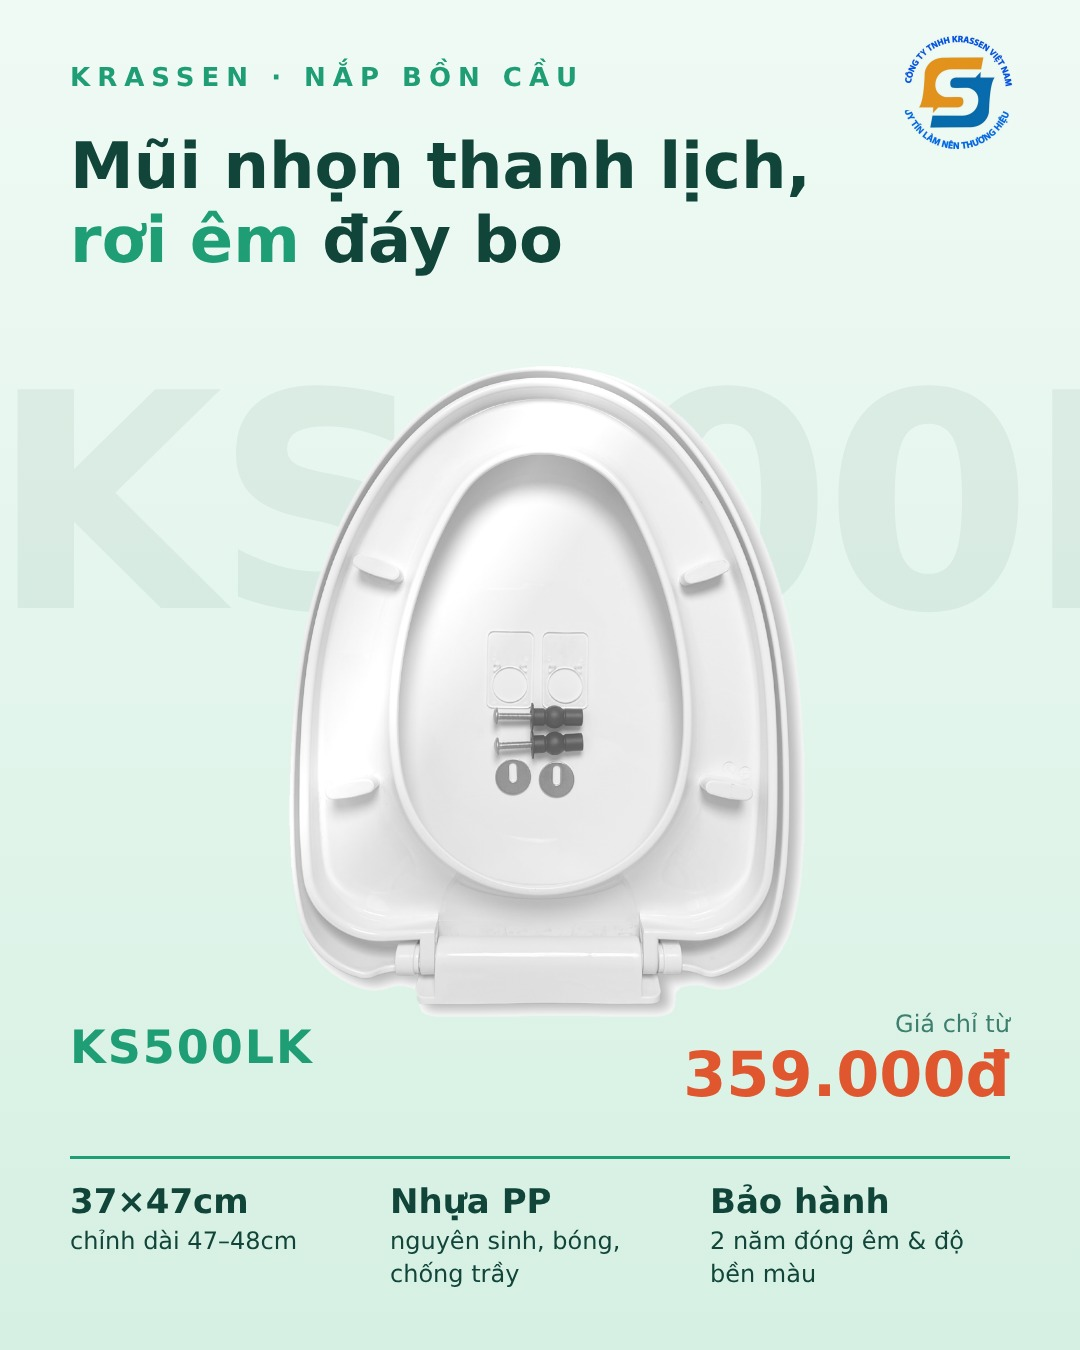
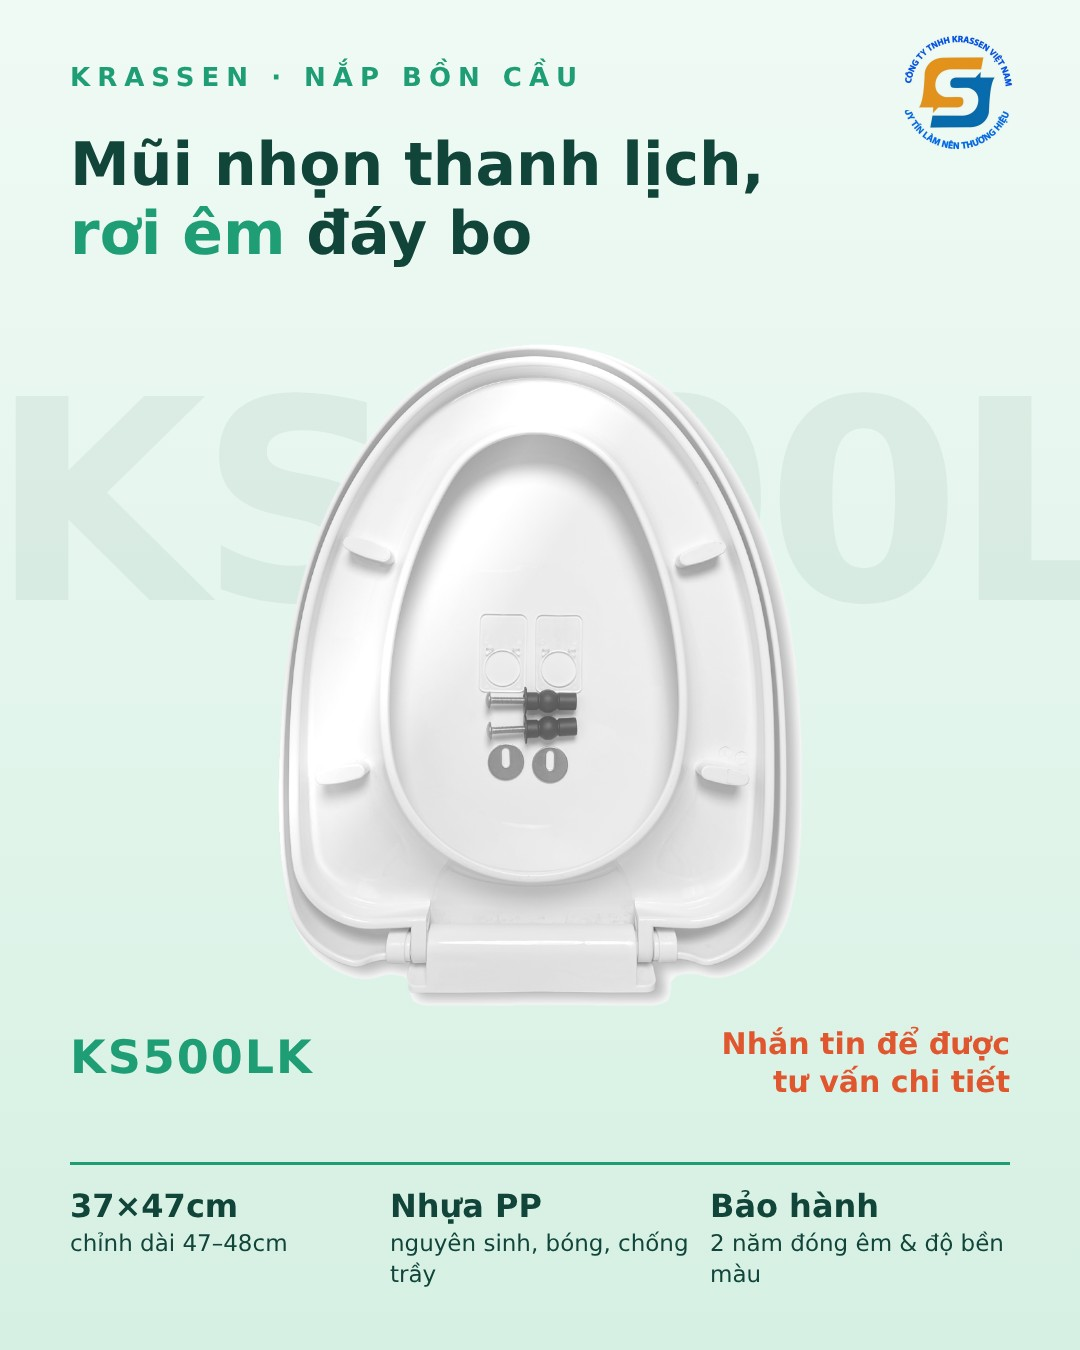
Cap nhat anh 12 ma (bo gia), them manifest.json va caption
Claude-Session: https://claude.ai/code/session_013caNe4PvgU8QmB7DtUJ3vr

diff --git a/captions_12.md b/captions_12.md
@@ -1,0 +1,109 @@
+# Caption 12 mã (không ghi giá)
+
+## KS500RK
+Nắp bồn cầu rơi êm KS500RK – mũi nhọn, đáy bo, vừa vặn nhiều dòng bồn cầu 💧
+✅ Rộng 37cm, dài 47cm (chỉnh được 47–48cm tính từ mũi bồn cầu đến tâm 2 lỗ bắt vít)
+✅ Nhựa PP nguyên sinh cao cấp, phủ bóng hạn chế trầy xước, màu trắng sữa không ố màu
+✅ Bảo hành 2 năm tính năng đóng êm và độ bền màu
+Tương thích nhiều mã bồn cầu Inax (AC602VN…), TOTO (C344, S320…), American (VF2700…), Cotto (C1388…), Caesar (CD1130, CD1131)…
+📩 Nhắn tin để được tư vấn chi tiết và đúng size bồn cầu nhà bạn!
+#krasen #napboncau #naproiem #suachuanhacua
+
+## KS11
+Bồn cầu nhà bạn dáng tròn bầu? Nắp đóng êm KS11 là lựa chọn vừa vặn ✨
+✅ Rộng 36cm, dài 44cm (chỉnh dài 43–44cm)
+✅ Nhựa PP nguyên sinh cao cấp phủ bóng, hạn chế trầy xước, màu trắng sữa không ố màu
+✅ Bảo hành 2 năm tính năng đóng êm và độ bền màu
+Phù hợp nhiều dòng bồn cầu Inax (C-117VTN…), Viglacera (VI44…), American Standard (VF-2321…), Ceravi (C305…), Caesar (CT1325PW…), TOTO (S715D…)
+📩 Nhắn tin để được tư vấn chi tiết và đúng size bồn cầu nhà bạn!
+#krasen #napboncau #naproiem #suachuanhacua
+
+## KS609TC
+KS609TC – mũi nhọn chữ V, đáy rộng, rơi chậm êm ái 🌟
+✅ Rộng 36cm, dài 46cm (chỉnh vị trí ốc vít, dài 45–47cm)
+✅ Rơi chậm không gây tiếng ồn, nhựa PP nguyên sinh phủ bóng không ố màu, hạn chế trầy xước
+✅ Màu trắng sữa bền đẹp, bảo hành 2 năm tính năng đóng êm và độ bền màu
+Tương thích bồn cầu Inax (918VRT, AC-952VN), Basic (BS-108…), Kassani (2372…), Cotto (C12247), American (VF1808), Viglacera (V45, V36), Caesar (C1374-PW…)
+📩 Nhắn tin để được tư vấn chi tiết và đúng size bồn cầu nhà bạn!
+#krasen #napboncau #naproiem #suachuanhacua
+
+## KS500LK
+KS500LK – nắp bồn cầu rơi êm, mũi nhọn thanh lịch, đáy bo gọn gàng 🛁
+✅ Rộng 37cm, dài 47cm (chỉnh dài 47–48cm tính từ mũi nắp đến tâm 2 lỗ vít)
+✅ Nhựa PP nguyên sinh cao cấp phủ bóng, hạn chế trầy xước, màu trắng sữa không ố màu
+✅ Bảo hành 2 năm tính năng đóng êm và độ bền màu
+Phù hợp nhiều dòng TOTO (TC385VS, MS188…), Inax (AC-702VRN, C702VRN…), Caesar (C1356, CD1330…), Viglacera (V37, V39…), American (VF1858, VF2010…)
+📩 Nhắn tin để được tư vấn chi tiết và đúng size bồn cầu nhà bạn!
+#krasen #napboncau #naproiem #suachuanhacua
+
+## KS09
+KS09 – nắp bồn cầu tròn bầu đóng êm, vừa nhiều dòng bồn cầu phổ biến 🌿
+✅ Rộng 37cm, dài 44cm (chỉnh dài 43–44cm tính từ mũi nắp đến tâm 2 lỗ vít)
+✅ Nhựa PP nguyên sinh cao cấp phủ bóng, hạn chế trầy xước, màu trắng sữa không ố màu
+✅ Bảo hành 2 năm tính năng đóng êm và độ bền màu
+Tương thích bồn cầu Caesar (C1338-PW, CT1325…), Inax (C108, C117…) và nhiều hãng khác
+📩 Nhắn tin để được tư vấn chi tiết và đúng size bồn cầu nhà bạn!
+#krasen #napboncau #naproiem #suachuanhacua
+
+## KS15U
+KS15U – nắp bồn cầu chữ U rơi chậm, êm ái không tiếng ồn 🌙
+✅ Rộng 36cm, dài 46cm (chỉnh dài 45–48cm tính từ mũi nắp đến vị trí ốc vít)
+✅ Rơi chậm không gây tiếng ồn, màu trắng sữa phủ bóng hạn chế trầy xước
+✅ Nhựa PP nguyên sinh cao cấp không ố màu, nặng 1,4kg dày chắc chắn, bảo hành 2 năm
+Thay thế cho nhiều bồn phổ thông và cao cấp: Toto (CW162, CW635…), Viglacera (V199, V35…), American Standard (VF2309, VF2781), Vinaloha, Basic, Kassani, Sanfi…
+📩 Nhắn tin để được tư vấn chi tiết và đúng size bồn cầu nhà bạn!
+#krasen #napboncau #naproiem #suachuanhacua
+
+## KS005
+KS005 – nắp bồn cầu hình trứng, đóng êm, rơi chậm không gây tiếng ồn 🥚
+✅ Rộng 36cm, dài 45cm (chỉnh dài 43–46cm tính từ mũi nắp đến tâm 2 chân vít)
+✅ Màu trắng sữa phủ bóng hạn chế trầy xước, nhựa PP nguyên sinh cao cấp không ố màu
+✅ Nặng 1,3kg dày chắc chắn, bảo hành 2 năm
+Tương thích bồn cầu Cotto (C12247), American (VF2014)… và thay thế cho nhiều loại bồn phổ thông và cao cấp
+📩 Nhắn tin để được tư vấn chi tiết và đúng size bồn cầu nhà bạn!
+#krasen #napboncau #naproiem #suachuanhacua
+
+## KS21
+KS21 – nắp bồn cầu mũi tròn đáy bo, dáng nhỏ gọn, rơi chậm êm ái 🤍
+✅ Rộng 34cm, dài 44cm (chỉnh dài 43–44cm tính từ mũi nắp đến tâm 2 chân bắt vít)
+✅ Rơi chậm không gây tiếng ồn, màu trắng sữa phủ bóng hạn chế trầy xước
+✅ Nhựa PP nguyên sinh cao cấp không ố màu, nặng 1,3kg dày chắc chắn, bảo hành 2 năm
+Phù hợp bồn cầu Viglacera (V38, TT77, C109…), Vinaloha (LH1-08, LH1-07), Livera BL08, Kassani KS-2345, Iasaki BL-08…
+📩 Nhắn tin để được tư vấn chi tiết và đúng size bồn cầu nhà bạn!
+#krasen #napboncau #naproiem #suachuanhacua
+
+## KS504C
+KS504C – nắp bồn cầu mũi tròn đáy rộng, rơi chậm, nhựa PP cao cấp không ố màu 💎
+✅ Rộng 36cm, dài 46cm (chỉnh dài 44–47cm tính từ mũi nắp đến tâm 2 chân bắt vít)
+✅ Rơi chậm không gây tiếng ồn, màu trắng sữa phủ bóng hạn chế trầy xước
+✅ Nhựa PP nguyên sinh cao cấp không ố màu, nặng 1,3kg dày chắc chắn, bảo hành 2 năm
+Tương thích bồn cầu Ceravi (C502, C504, C612), Viglacera (C109), Basic (BS-103), Siton (S600), Vosler (VL-C391), Saphias (TS-157)…
+📩 Nhắn tin để được tư vấn chi tiết và đúng size bồn cầu nhà bạn!
+#krasen #napboncau #naproiem #suachuanhacua
+
+## KS45
+KS45 – nắp bồn cầu cao cấp rơi êm, gắn vòi xịt tiện lợi 🚿
+✅ Rộng 37cm, dài 47cm (chỉnh dài 47–48cm tính từ mũi nắp đến tâm 2 chân bắt vít)
+✅ Rơi chậm không gây tiếng ồn, màu trắng sữa phủ bóng hạn chế trầy xước
+✅ Nhựa PP nguyên sinh cao cấp không ố màu, nặng 1,7kg dày chắc chắn, bảo hành 2 năm
+Phù hợp nhiều loại bồn cao cấp: TOTO, INAX, VIGLACERA, AMERICAN…
+📩 Nhắn tin để được tư vấn chi tiết và đúng size bồn cầu nhà bạn!
+#krasen #napboncau #naproiem #suachuanhacua
+
+## KS602K
+KS602K – nắp bồn cầu mũi nhọn đáy bo, rơi chậm không gây tiếng ồn ✨
+✅ Rộng 36cm, dài 47cm (chỉnh dài 46–48cm tính từ mũi nắp đến tâm 2 chân bắt vít)
+✅ Màu trắng sữa phủ bóng hạn chế trầy xước, nhựa PP nguyên sinh cao cấp không ố màu
+✅ Nặng 1,5kg dày chắc chắn, bảo hành 2 năm
+Tương thích bồn cầu American (VF2385, VF1858…), Siton (S604), Cotto (C13382, C1331…), TOTO (S351D, S715D), Viglacera (BL5M, 3310), Basic (BS-108RS)…
+📩 Nhắn tin để được tư vấn chi tiết và đúng size bồn cầu nhà bạn!
+#krasen #napboncau #naproiem #suachuanhacua
+
+## KS608U
+KS608U – nắp bồn cầu chữ U cỡ nhỏ gọn, nhựa PP cao cấp, trắng sữa phủ bóng 🌸
+✅ Rộng 34cm, dài 44cm (chỉnh dài 43–44cm tính từ mũi nắp đến tâm 2 chân bắt vít)
+✅ Rơi chậm không gây tiếng ồn, màu trắng sữa phủ bóng hạn chế trầy xước
+✅ Nhựa PP nguyên sinh cao cấp không ố màu, nặng 1,5kg dày chắc chắn, bảo hành 2 năm
+Phù hợp bồn cầu Cotto (C686), Caesar (CPT1503), Viglacera (V56, V41), Basic (BS-101, BS-102, BS-303)…
+📩 Nhắn tin để được tư vấn chi tiết và đúng size bồn cầu nhà bạn!
+#krasen #napboncau #naproiem #suachuanhacua
